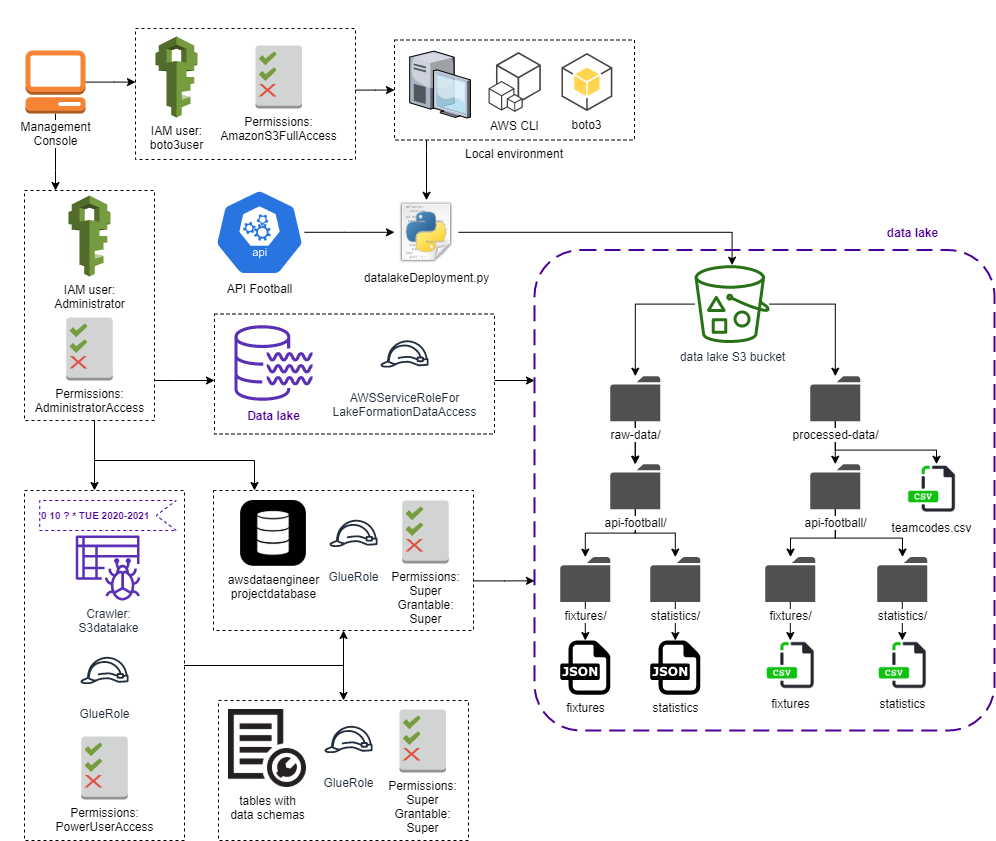
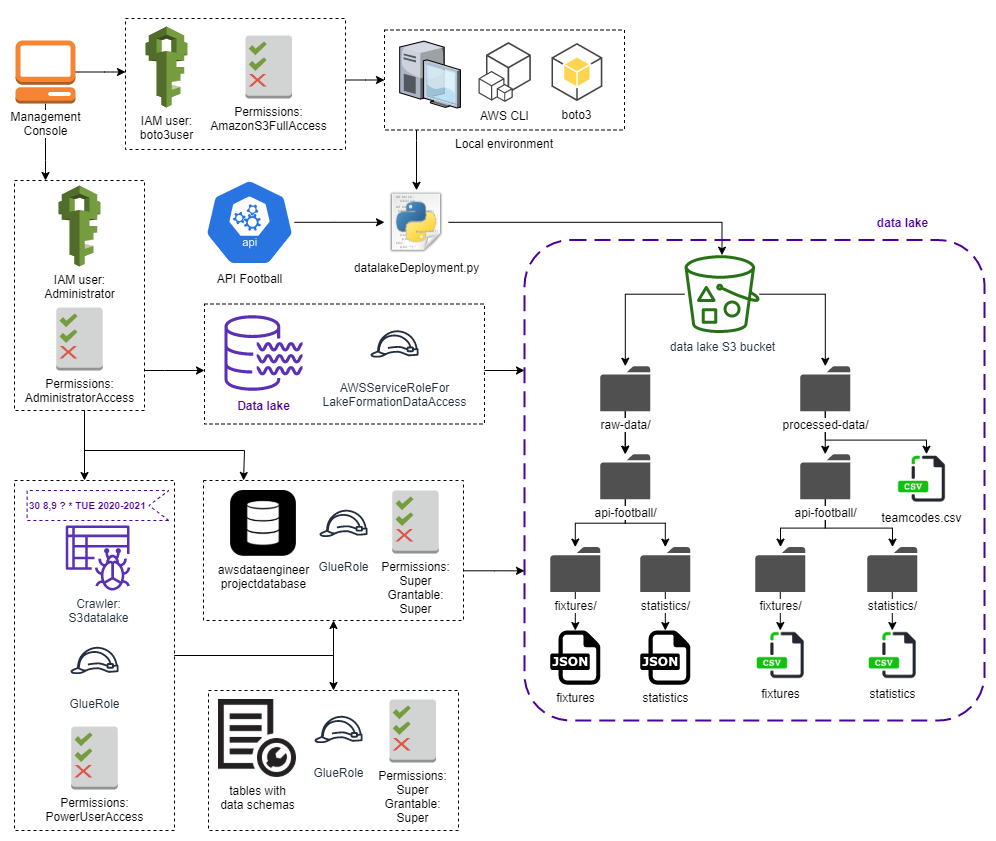
README, SageMaker Autopilot

diff --git a/README.md b/README.md
@@ -1,21 +1,20 @@
 # AWS Data Engineer (in progress)
-A simple data engineer project to implement some skills
 
 ## 1 Project's purpose
-I do this project to implement some of my data engineer skills. It could also be a fruitful support in order to discuss in an interview.
+I do this project to implement some of my data engineer skills.
+It could also be a fruitful support in order to discuss in an interview.
 
 For this project I will only use cloud services, especially AWS ones.
 
 For the context, let's imagine that we are in a company which wants to analyze the difference between expected goals and points, and real goals and points for each football team in a same league.
-
-For this project I will create a data lake, where I will store and process data before loading them weekly into a database.
-Because my purpose is focused on the engineering part, the analysis part will be very restricted.
-
 I will focus on english Barclays Premier League, considering all the teams and matchweeks for the current season (2020/2021).
 
-In order to train a machine learning algorithm I will also upload the previous season (2019/2020) statistics.
+I will create a data lake, where I will store and process data weekly in order to make a visualization.
+The purpose is focused on the engineering part, but not on the analysis part.
 
-Project workflow:
+In order to train a machine learning algorithm, I will also upload the previous season (2019/2020) statistics.
+
+General workflow:
 
 ![](images/workflow-awsDataEngineer.png)
 
@@ -62,16 +61,14 @@ Under Cost Management Preferences, select Receive AWS Free Tier Usage Alerts to 
 
 ![](images/workflow-datalakeDeployment.png)
 
-To create S3 bucket and upload files to it with running my python scripts locally, I use the boto3 SDK.
-
 ### 4.1 Creation of a new user to use boto3
 
-To make boto3 run against my AWS account, I need to provide some valid credentials. To do this, I have to create a new user using AWS Identity and Access Management (IAM), and then store the new credentials.
+To create S3 bucket and upload files to it with running my python scripts locally, I use the boto3 SDK.
 
-I give the user a name (in my case, boto3user), and enable programmatic access to ensure that this user will be able to work with any AWS supported SDK or make separate API calls.
-
+After installing boto3, I need to provide some valid credentials to make boto3 run against my AWS account.
+To do this, I have to create a new user using AWS Identity and Access Management (IAM), and then store the new credentials.
+I name the user boto3user, and enable programmatic access to ensure that this user will be able to work with any AWS supported SDK or make separate API calls.
 To keep things simple, I choose the preconfigured AmazonS3FullAccess policy. With this policy, the new user will be able to have full control over S3.
-
 At the last user creation step, a new screen shows the user’s generated credentials. I click on the Download .csv button to make a copy of the credentials.
 
 ![](images/boto3User.PNG)
@@ -84,21 +81,21 @@ I fill in the requested information with the corresponding values from my csv fi
 For the Default region name, I select my region using https://docs.aws.amazon.com/fr_fr/general/latest/gr/rande.html#s3_region. In my case, I am using eu-west-3 (Paris).
 For the default output format, I select json. The different formats are provided at https://docs.aws.amazon.com/fr_fr/cli/latest/userguide/cli-configure-quickstart.html#cli-configure-quickstart-config.
 
-### 4.2 Data lake structure
+### 4.2 Python script
 
-![](images/datalakeStructure.png)
+I deploy my data lake by running my python script (datalakeDeployment.py) locally.
 
-I get football data using API-Football. Here is its documentation: https://www.api-football.com/documentation-v3.
+I get football data using API-Football and API-Football-Beta. Here is their documentations:
+- API-Football: https://www.api-football.com/documentation
+- API-Football-Beta: https://www.api-football.com/documentation-v3.
 
 After creating my RapidAPI account and getting my API key (https://rapidapi.com/marketplace), I get these english Barclays Premier League ids by sending requests to the APIs:
 - Previous season for API-Football: 524
 - Current season for API-Football: 2790
 - Current season for API-Football-Beta: 39
 
-Then I write my python script datalakeDeployment.py to get data from these APIs and deploy my data lake by running the script locally.
-
-This script create my data lake as an S3 bucket named with a globally unique name to satisfy S3 policy requirements.
-Then it uploads teamcodes.csv to the data lake, into a folder named "processed-data". I made this csv file myself by aggregating the API-Football id, the name, and the team code (for example 'ARS' for Arsenal) of each team. It could be useful to go further in this project by getting some tweets for sentimental analysis.
+datalakeDeployment.py creates my data lake as an S3 bucket named with a globally unique name to satisfy S3 policy requirements.
+Then it uploads teamcodes.csv to the data lake, into a folder named "processed-data". I made this csv file by myself by aggregating the API-Football id, the name, and the team code (for example 'ARS' for Arsenal) of each team. It could be useful to go further in this project by getting some tweets for sentimental analysis.
 After that, the script requests API-Football APIs to get previous fixtures, and their statistics. Data are uploaded in their json raw format as json files to the data lake into the folders "raw-data/api-football/fixtures", and "raw-data/api-football/statistics". Finally, the json data are processed to be uploaded as csv files to the data lake into the folders "processed-data/api-football/fixtures" and "processed-data/api-football/statistics".
 
 If you want to run the script by yourself, make sure that you filled your API key in place of 'XXX'. Also, pay attention to the API-Football pricing (free until 100 requests per day, around €0.00450 / request beyond). Since the script will send one request to get the fixtures, then another one to each of the finished fixtures to get their statistics, you will begin to pay around €0.00450 / fixture for each fixture after the 99 firsts.
@@ -119,36 +116,33 @@ Using AWS Lake Formation, I register my Administrator user as the data lake admi
 
 ![](images/adminAndDatabaseCreator.PNG)
 
-As I plan to access the location using Amazon EMR, I won't use the Lake Formation service-linked role.
-I have to create a new role in order to register my S3 bucket as the location of my data lake.
-I create this role using https://docs.aws.amazon.com/lake-formation/latest/dg/registration-role.html.
-I name it DataLakeRole.
-
-I specify my S3 bucket as the data lake location.
+Then, I specify my S3 bucket as the data lake location, using the Lake Formation service-linked role.
 
 ![](images/datalakeLocation.PNG)
 
-Then, I create a new database named "awsdataengineerprojectdatabase" specifying the Amazon S3 path to my bucket.
+Then, I create a new database named "awsdataengineerprojectdatabase" specifying the Amazon S3 path to my bucket and the following permissions.
 
 ![](images/database.PNG)
 
-To catalog the data stored into the data lake, I create a crawler that I name "S3datalake", using AWS Glue, and that I schedule every Tuesday at 8:30 and 9:30 AM (GMT) for years 2020 and 2021 using the cron expression "0 10 ? * TUE 2020-2021". Pay attention that the time zone used by CloudWatch for cron expressions is GMT.
+![](images/databasePermissions.PNG)
+
+To catalog the data stored into the data lake, I create a crawler that I name "S3datalake", using AWS Glue, and that I schedule every Tuesday at 8:30 and 9:30 AM (GMT) for years 2020 and 2021 using the cron expression "30 8,9 ? * TUE 2020-2021". Pay attention at the GMT time zone used by CloudWatch for cron expressions.
 Just before, I create for my crawler a new IAM role that I name "GlueRole" with the PowerUserAccess policy.
 
 ![](images/GlueRole.PNG)
 
 ![](images/crawler.PNG)
 
-Once the crawler is created, I run it.
+Once the crawler created, I run it.
 The crawler add 5 tables to awsdataengineerprojectdatabase. These tables contain the schema of my data.
 
-![](images/databaseTables.PNG)
+![](images/databaseTables1.PNG)
 
 ## 5 ETL jobs with AWS Lambda
 
 ![](images/workflow-etlLambda.png)
 
-With AWS, there are several ways to perform ETL jobs. You can for example use AWS Glue, which is a serverless data integration service, but also AWS Lambda, which is a serverless compute service. For this project I will use them both. I will use AWS Lambda for the firsts ETL jobs I will create, to show two different ways to run a Lambda function automatically: whith a scheduler, and with a trigger from S3.
+With AWS, there are several ways to perform ETL jobs. You can for example use AWS Glue, which is a serverless data integration service, but also AWS Lambda, which is a serverless compute service. For this project I will use them both. I will use AWS Lambda for the firsts ETL jobs I will create, to show two different ways to trigger a Lambda function: whith a scheduler, and with a trigger from S3.
 
 ### 5.1 Lambda role
 
@@ -158,6 +152,8 @@ I first create a new IAM role that I name "LambdaFullAccessToS3" to give AmazonS
 
 ### 5.2 Adding layers to Lambda functions
 
+![](images/requestsPandasLayers.PNG)
+
 In my scripts that I want to run as Lambda functions, I use the requests and pandas packages, which are not directly available in Lambda.
 In order to use any of these packages in a Lambda function, I have to add a layer to the Lambda function. For example, if I have a Lambda function using pandas, I have to add it a pandas layer to allow the pandas package import.
 
@@ -165,7 +161,7 @@ Whenever it is needed, I add the required layer using the Klayers repository on 
 https://github.com/keithrozario/Klayers
 
 For my Lambda functions I have to find the right ARN (AWS Resource Name) inside the deployments folder for python3.8.
-After checking the region mentioned in my Lambda function ARN, on the top-right corner of the Lambda function screen (in my case 'eu-west-3'),I select the corresponding csv file available in the repository.
+After checking the region mentioned in my Lambda function ARN, on the top-right corner of the Lambda function screen (in my case 'eu-west-3'), I select the corresponding csv file available in the repository.
 Finally, I just have to copy paste the ARN of the layer that I need.
 
 If you want more details go on https://medium.com/@melissa_89553/how-to-import-python-packages-in-aws-lambda-pandas-scipy-numpy-bb2c98c974e9.
@@ -176,10 +172,7 @@ As I did to deploy the data lake, I want to get fixtures data from API-Football-
 I want to get data about the fixtures from the previous week to the next week.
 As for teamcodes.csv, I want to get the next week fixtures to be able to go further in this project by handle tweets streaming for some fixtures.
 
-I create a new python Lambda function that I name etlGetFixtures, giving it the LambdaFullAccessToS3 IAM role.
-I wrote the python script for this Lambda function in etlGetFixtures.py. I just have to copy paste the whole script into my new Lambda function specifying my data lake bucket name and my api key, and add the requests and pandas layers to my Lambda function. I also set the timeout to 10 seconds instead of 3, to prevent the case where there are a lot of previous week fixtures to request for their statistics.
-
-![](images/requestsPandasLayers.PNG)
+I create a new python Lambda function that I name etlGetFixtures, giving it the LambdaFullAccessToS3 IAM role. I wrote the python script for this Lambda function in etlGetFixtures.py. I just have to copy paste the whole script into my new Lambda function specifying my data lake bucket name and my API key, and add the requests and pandas layers to my Lambda function. I also set the timeout to 10 seconds instead of 3, to prevent the case where there are a lot of previous week fixtures to process.
 
 #### 5.3.1 Schedule the Lambda function
 
@@ -190,19 +183,13 @@ I schedule this ETL job each Tuesday at 8 AM (GMT) for years 2020 and 2021, with
 
 ### 5.4 etlGetStatistics job
 
-Now that my first job is created and scheduled to get previous and next week fixtures from API-Football-Beta each Tuesday at 8 AM, I will create a new ETL job with Lambda to get statistics data for every finished fixtures, upload it as json files into the raw-data folder, then process it and upload it as a csv file into the processed-data folder.
+Now that my first job is created and scheduled to get previous and next week fixtures from API-Football-Beta each Tuesday at 8 AM, I create a new ETL job with Lambda to get statistics data for each finished fixtures uploaded into the data lake, upload it as json files into the raw-data folder, then process it and upload it as a csv file into the processed-data folder.
 
-As previously, I just have to create a new Lambda function for this job, giving it the LambdaFullAccessToS3 IAM role, copy paste my python script etlGetStatistics.py, and specify my api key in the script.
-
-I also set the timeout to 10 seconds instead of 3, to prevent the case where there are a lot of statistics to process.
-
-Finally, I add the requests and pandas layers to my Lambda function.
+As previously, I just have to create a new Lambda function for this job, giving it the LambdaFullAccessToS3 IAM role, copy paste it my python script etlGetStatistics.py, specify my API key, and add it the requests and pandas layers. I also set the timeout to 1 minute and 30 seconds instead of 3 seconds, to prevent the case where there are a lot of finished fixtures to get statistics for.
 
 #### 5.4.1 Trigger the Lambda function with S3
 
-To trigger my Lambda function each time that an object is putted into my data lake, I have to create event notification.
-
-As shown in my following screenshot, I select the right prefix, suffix, and event type for the trigger.
+To trigger my Lambda function each time that new fixtures are uploaded into my data lake, I have to create an event notification. As shown in my following screenshot, I select the right prefix, suffix, and event type for the trigger.
 
 ![](images/triggerEtlGetStatistics.PNG)
 
@@ -234,7 +221,7 @@ In order to run a machine learning algorithm that predicts goals for each team o
 
 ![](images/teamStatisticsSchema.PNG)
 
-To do this I create a new folder into my data lake that I name processed-data/api-football/teams-fixtures-statistics/.
+To do this I create a new folder into my data lake that I name processed-data/api-football/teams-fixtures-statistics/, and I grant the GlueRole and the "super" permission to my awsdataengineerprojectdatabase tables.
 
 Then I create two ETL jobs with Glue:
 - hometeamstatistics (hometeamstatistics.py)
@@ -253,14 +240,40 @@ Once my Glue jobs are created and scheduled, a new S3 bucket is created to store
 
 ![](images/glueBucket.PNG)
 
-Running the two Glue jobs for the first time processes the data and uploads it to the S3 folder destination.
+I run the two Glue jobs for the first time to process the data and uploads it to the S3 folder destination.
 To catalog these new data, I run the S3datalake crawler I've created before.
 Thanks to this, my data are now cataloged into my awsdataengineerprojectdatabase.
 
 ![](images/teamsFixturesStatistics.PNG)
 
-## 8 Machine Learning with AWS SageMaker
+## 8 xGoalsJob
 
-I first create a new SageMaker user, that I name "mydefaultusername".
+![](images/workflow-xGoalsJob.png)
+
+### 8.1 dropids job
+
+To enable the use of SageMaker Autopilot to automatically build and train a machine learning model which generate an expected goals feature (xGoals), I have to give to SageMaker Autopilot a csv file containing 500 rows minimum, with only the relevant features.
+Hence I create a Glue job (dropids.py) that I name dropids to drop the idfixture and idteam columns of the data uploaded into the teams-fixtures-statistics folder, and upload the data into the sagemaker-autopilot folder.
+
+![](images/glueJobDropIds.PNG)
+
+At this job's output, data follow this schema:
+
+![](images/dropidsSchema.PNG)
+
+### 8.2 xGoals model using SageMaker Autopilot
+
+After running the dropids job then the S3datalake crawler, I create a new SageMaker user, that I name "mydefaultusername", giving it the service role AmazonSageMaker-ExecutionRole, then I click on "Open Studio".
 
 ![](images/sagemakerUser.PNG)
+
+Giving it the input and output data locations, SageMaker Autopilot build, train and tune the xGoals model.
+It also provides two jupyter notebooks:
+- SageMakerAutopilotCandidateDefinitionNotebook.ipynb
+- SageMakerAutopilotDataExplorationNotebook.ipynb
+
+Finally, SageMaker provides the best xGoals model.
+
+![](images/sagemakerAutopilot.PNG)
+
+### 8.3 Batch predictions
